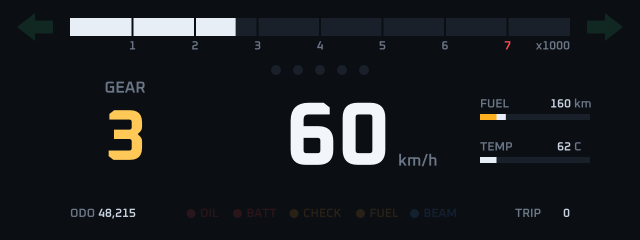
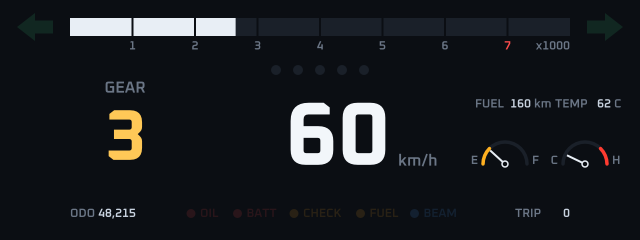
car_dashboard: needle gauges, path arrows and a relay click
Fuel and temperature become needle gauges: a needle whose rotation is
bound to the variable with a transition, over a stroked arc path with a
colored zone, swept by the ignition like the rev bar. The turn signal
arrows are path shapes now, the right one the left one mirrored with
scale_x, so the show has no images left; an audio layer clicks like the
relay on the same triggers, synthesized by tools/car_dashboard_sounds.py.

diff --git a/tools/car_dashboard_sounds.py b/tools/car_dashboard_sounds.py
@@ -1,0 +1,46 @@
+#!/usr/bin/env python3
+"""Synthesize car_dashboard's turn signal relay: click.wav.
+
+    tools/car_dashboard_sounds.py car_dashboard/assets/sounds
+
+0.7 seconds, 44.1 kHz mono 16-bit: a click at 0 and a softer one at
+0.35 s, the relay pulling in and dropping out, so one play covers one
+blink of the arrows and a repeat of four covers the four blinks.
+"""
+
+import math
+import random
+import struct
+import sys
+import wave
+from pathlib import Path
+
+RATE = 44100
+
+
+def click(t, level):
+    # A damped high tone with a touch of noise: a small relay.
+    if t < 0:
+        return 0.0
+    envelope = math.exp(-t * 220)
+    return level * envelope * (0.7 * math.sin(2 * math.pi * 2400 * t) + 0.3 * random.uniform(-1, 1))
+
+
+def main():
+    random.seed(4)
+    out = Path(sys.argv[1])
+    out.mkdir(parents=True, exist_ok=True)
+    samples = []
+    for n in range(int(RATE * 0.7)):
+        t = n / RATE
+        value = click(t, 0.8) + click(t - 0.35, 0.45)
+        samples.append(struct.pack("<h", int(max(-1.0, min(1.0, value)) * 32767)))
+    with wave.open(str(out / "click.wav"), "wb") as w:
+        w.setnchannels(1)
+        w.setsampwidth(2)
+        w.setframerate(RATE)
+        w.writeframes(b"".join(samples))
+
+
+if __name__ == "__main__":
+    main()

diff --git a/car_dashboard/README.md b/car_dashboard/README.md
@@ -2,18 +2,19 @@
 
 A digital instrument cluster on a 1280x480 canvas, driven almost entirely
 by variables: the host says how fast the car goes, the show decides what
-that looks like. No scenes, and apart from two arrows only shapes and text.
+that looks like. No scenes, only shapes, text and one click.
 
 | Part | How it works |
 | --- | --- |
 | Speed, range, temperature, trip, odometer | `text` bindings, the odometer with the `thousands` format |
 | Gear | `text` binding with a `map`: `-1` is `R`, `0` is `N` |
-| Rev bar, fuel and temperature bars | a bright bar inside a group with a `clip`, covered by a dark rect whose `x` is bound to the variable (`scale` and `offset` turn 50..130 C into 0..220 px) |
+| Rev bar | a bright bar inside a group with a `clip`, covered by a dark rect whose `x` is bound to `rpm` |
+| Fuel and temperature gauges | a needle whose `rotation` is bound to the variable with a `transition` (`scale` and `offset` turn 50..130 C into -90..90 degrees), over a stroked arc `path` with a colored zone; the ignition sweeps them too |
 | Shift lights | five circles whose `opacity` is bound to `rpm`, each with its own `offset`; opacity is clamped, so each switches on over a 100 rpm window |
 | Sport mode | `mode` is a text variable: a mapped `font` binding turns the speed red, a mapped `opacity` binding shows the label |
 | Warning lamps | group `opacity` bound to a 0/1 variable, from dim to lit |
 | Ignition | the `ignition` trigger plays timelines that sweep the rev bar and light every lamp; a running timeline overrides a binding and hands the property back when it ends |
-| Turn signals, hazard | each arrow image has one blink timeline with `repeat` and a list of triggers, `["turn_left", "hazard"]`; the arrows are dim when off, like the lamps |
+| Turn signals, hazard | each arrow is a `path` shape, the right one the left one with `scale_x` -1; each has one blink timeline with `repeat` and a list of triggers, `["turn_left", "hazard"]`, and an `audio` layer clicks like the relay on the same triggers, with the same `repeat`. The arrows are dim when off, like the lamps |
 
 Everything the show uses is in cuelight `main`, including outline fonts:
 the text is drawn from the TrueType outlines and the player renders at
@@ -43,20 +44,15 @@ have to travel with the files are in [`licenses/`](licenses/).
 
 | Asset | Origin | License |
 | --- | --- | --- |
-| `arrow_left.png`, `arrow_right.png` | Made for this show, drawn by [`tools/car_dashboard_arrows.py`](../tools/car_dashboard_arrows.py) at four times the size they are shown at | MIT, as this repository |
+| `sounds/click.wav` | Made for this show, synthesized by [`tools/car_dashboard_sounds.py`](../tools/car_dashboard_sounds.py) | MIT, as this repository |
 | `fonts/Oxanium-Bold.ttf`, `fonts/Oxanium-SemiBold.ttf` | [Oxanium](https://github.com/sevmeyer/oxanium) by The Oxanium Project Authors, the unmodified static files from [`fonts/ttf`](https://github.com/sevmeyer/oxanium/tree/a8f39e0c71186190027a093e9001459410192d1e/fonts/ttf). Its digits all have the same width, so numbers keep their place while they change | [OFL-1.1](licenses/Oxanium-OFL.txt), no reserved font name |
 
 ## What would make it better
 
-- A `rotation` property: a needle gauge is the obvious dashboard element
-  and cannot be built. It is an affine transform, so far cheaper than
-  perspective.
 - Bindable shape size (or a `width`/`height` property): the bars would be
   one rect each instead of a clip group with a sliding cover.
 - Bindable `fill`: a lamp or a bar could change color with a mapped
   binding instead of stacking layers.
-- Polygon (or path) shapes and a tint for images: the arrows would not
-  need image files.
 - Smoothing on bindings (follow the variable with a time constant), so a
   host can post values at its own rate and the display still moves
   smoothly; the driver here has to post ten times a second.
